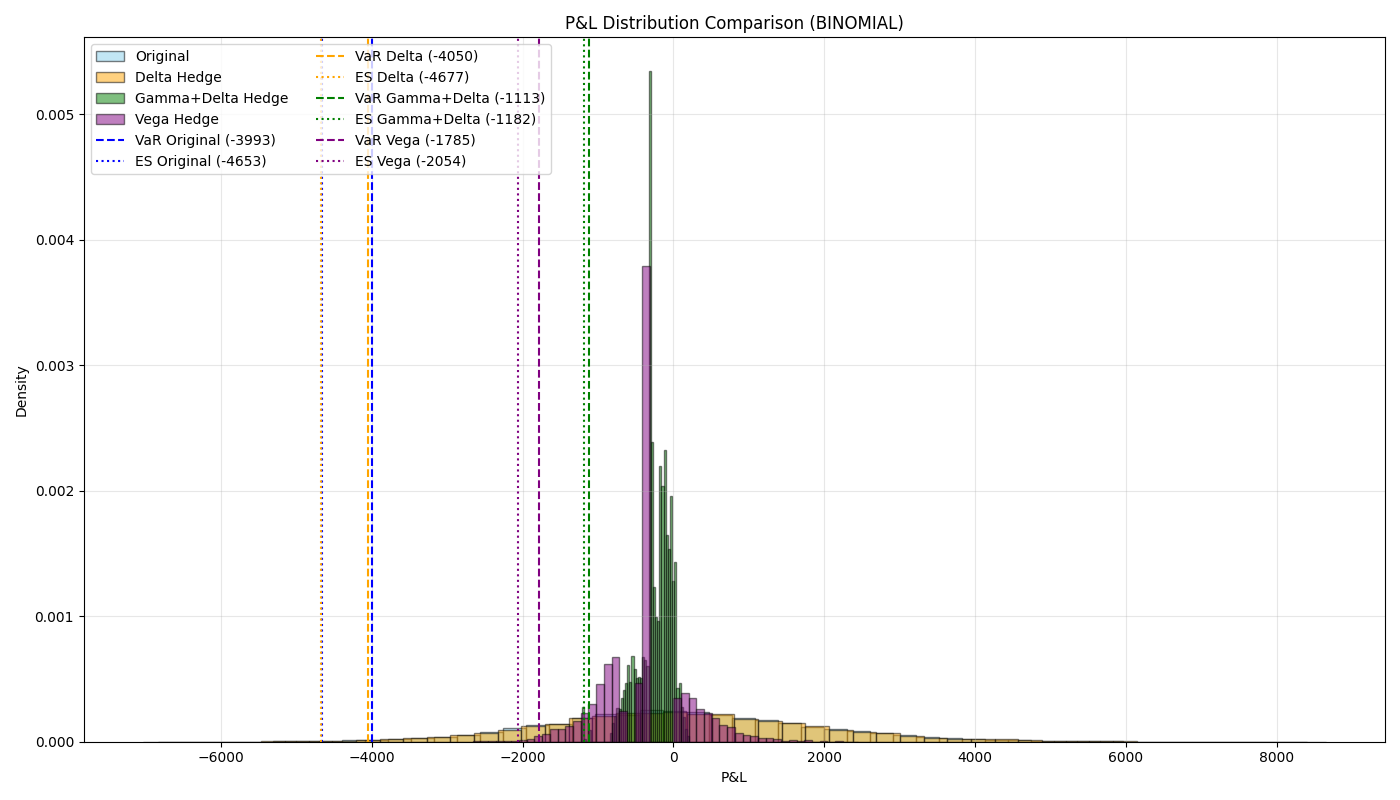
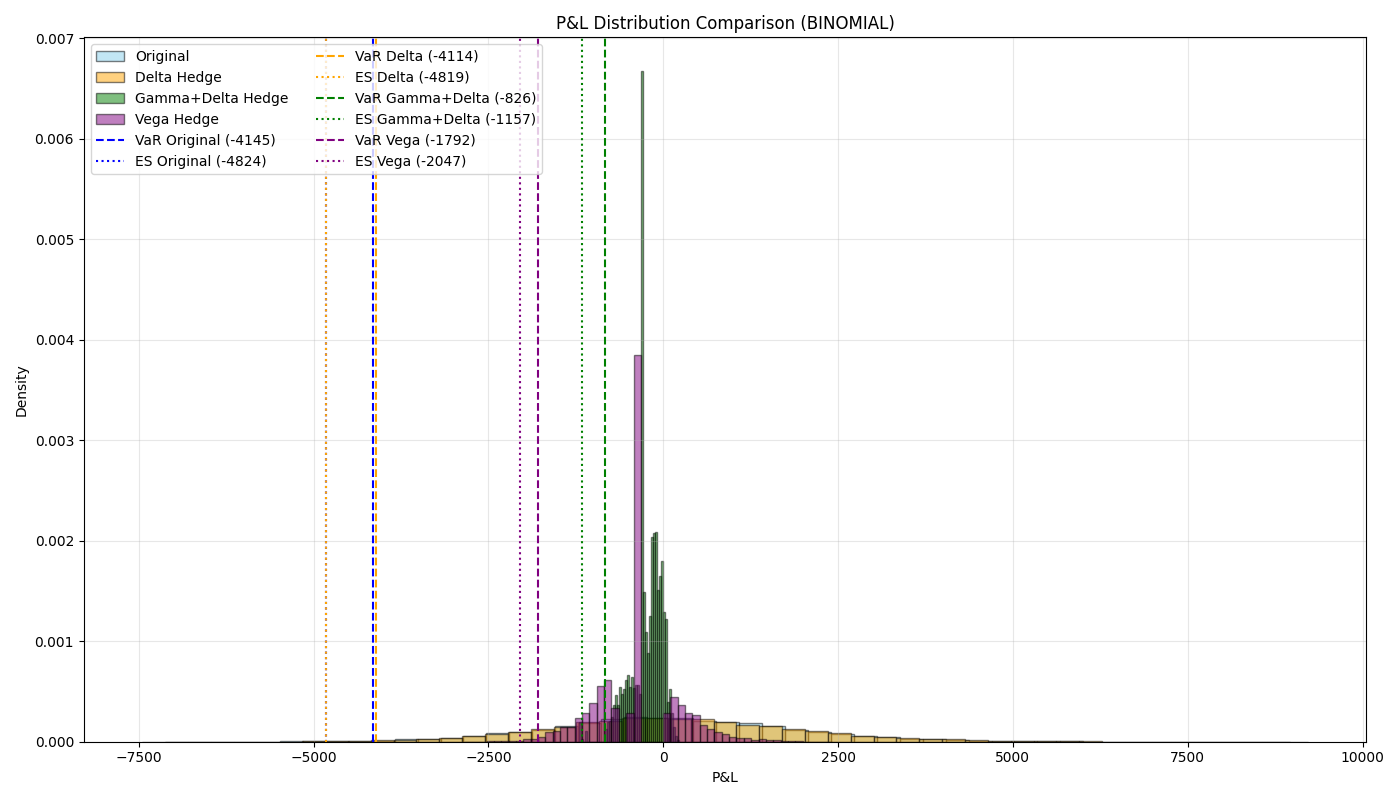
test

diff --git a/app.py b/app.py
@@ -91,42 +91,93 @@ st.sidebar.markdown('''
 if menu == "Portfolio Analysis - Black-Scholes":
     st.write("Black-Scholes portfolio model selected.")
     # Add Black-Scholes portfolio logic here
-    S = st.number_input("Spot price (S)", value=100.0, help="Current price of the underlying asset.")
-    K = st.number_input("Strike price (K)", value=100.0, help="Strike price of the option.")
-    T = st.number_input("Time to maturity (years)", value=1.0, min_value=0.01, help="Time to maturity in years.")
-    r = st.number_input("Risk-free rate (r, decimal)", value=0.05, min_value=0.0, max_value=1.0, step=0.01, help="Annual risk-free interest rate.")
+    num_options = st.number_input("Number of options in portfolio", min_value=1, max_value=10, value=4, step=1, help="Number of different options in the portfolio.")
+    horizon = st.number_input("Horizon (e.g., enter 10/252 for a 10-day horizon)", value=0.0849, min_value=0.01, format="%.4f", help="Horizon for VaR calculation.")
+    portfolio = []
+    default_values = [
+        {'type': 'call', 'S': 5912.17, 'K': 5915, 'T': 0.0849, 'r': 0.0421, 'qty': -10, 'market_price': 111.93},
+        {'type': 'put', 'S': 5912.17, 'K': 5910, 'T': 0.0849, 'r': 0.0421, 'qty': -5, 'market_price': 106.89},
+        {'type': 'call', 'S': 5912.17, 'K': 5920, 'T': 0.0849, 'r': 0.0421, 'qty': 10, 'market_price': 103.66},
+        {'type': 'put', 'S': 5912.17, 'K': 5900, 'T': 0.0849, 'r': 0.0421, 'qty': 10, 'market_price': 102.92}
+    ]
+    for i in range(num_options):
+        st.subheader(f"Option {i+1}")
+        option_type = st.selectbox(f"Option type for Option {i+1}", ["call", "put"], index=["call", "put"].index(default_values[i]['type']), key=f"option_type_{i}", help="Call or put option.")
+        S = st.number_input(f"Spot price (S) for Option {i+1}", value=default_values[i]['S'], help="Current price of the underlying asset.", key=f"S_{i}")
+        K = st.number_input(f"Strike price (K) for Option {i+1}", value=default_values[i]['K'], help="Strike price of the option.", key=f"K_{i}")
+        T = st.number_input(f"Time to maturity (years) for Option {i+1}", value=default_values[i]['T'], min_value=0.01, format="%.4f", help="Time to maturity in years.", key=f"T_{i}")
+        r = st.number_input(f"Risk-free rate (r, decimal) for Option {i+1}", value=default_values[i]['r'], min_value=0.0, max_value=1.0, step=0.0001, format="%.4f", help="Annual risk-free interest rate.", key=f"r_{i}")
+        qty = st.number_input(f"Quantity for Option {i+1}", value=default_values[i]['qty'], step=1, help="Quantity of options in the portfolio.", key=f"qty_{i}")
+        market_price = st.number_input(f"Market price for Option {i+1}", value=default_values[i]['market_price'], help="Observed market price of the option.", key=f"market_price_{i}")
+        portfolio.append({'type': option_type, 'S': S, 'K': K, 'T': T, 'r': r, 'qty': qty, 'market_price': market_price})
     if st.button("Calculate Portfolio", key="bs_portfolio_btn"):
         with st.spinner("Calculating portfolio..."):
             try:
-                price, greeks = bsa.calculate_portfolio(S, K, T, r)
-                st.metric("Portfolio Price", f"{price:.4f}")
-                st.write("Greeks:")
-                st.json(greeks)
+                np.random.seed(42)  # Set seed for reproducibility
+                value_bs = sum(bsa.price_option(opt)[0] * opt['qty'] for opt in portfolio)
+                greeks_total_bs = bsa.portfolio_greeks(portfolio)
+                # Simulate P&L distribution using bs_portfolio_analysis
+                sim_bs = bsa.simulate_portfolio(portfolio, n_sims=10000, horizon=horizon)
+                pnl_bs = sim_bs['pnl']
+                var_bs, es_bs = bsa.var_es(pnl_bs, alpha=0.01)
+                # Display portfolio Greeks first
+                st.write("Portfolio Greeks:")
+                st.json(greeks_total_bs)
+                # Display individual option model vs market prices
+                for i, opt in enumerate(portfolio, 1):
+                    st.subheader(f"Option {i} Details")
+                    model_price, _ = bsa.price_option(opt)
+                    col1, col2 = st.columns(2)
+                    col1.metric("Model Price", f"{model_price:.2f}")
+                    col2.metric("Market Price", f"{opt['market_price']:.2f}")
+                # Add Metric Risk label
+                st.subheader("Metric Risk")
+                # Display portfolio value, VaR, and ES horizontally
+                col1, col2, col3 = st.columns(3)
+                col1.metric("Portfolio Value", f"{value_bs:.2f}")
+                col2.metric("VaR (99%)", f"{var_bs:.2f}")
+                col3.metric("ES (99%)", f"{es_bs:.2f}")
+                # Plot histogram of P&L distribution
+                fig, ax = plt.subplots(figsize=(14, 8))
+                ax.hist(pnl_bs, bins=50, color='skyblue', edgecolor='k', alpha=0.5, density=True)
+                ax.axvline(-var_bs, color='red', linestyle='--', label=f'VaR (99%) {-var_bs:.2f}')
+                ax.axvline(-es_bs, color='orange', linestyle=':', label=f'ES (99%) {-es_bs:.2f}')
+                ax.set_title('Simulated P&L Distribution of the Portfolio (Black-Scholes)')
+                ax.set_xlabel('P&L')
+                ax.set_ylabel('Density')
+                ax.legend()
+                st.pyplot(fig)
             except Exception as e:
                 st.error(f"Error in calculation: {e}")
 
 elif menu == "Portfolio Analysis - Binomial":
     st.write("Binomial portfolio model selected.")
     # Add Binomial portfolio logic here
-    num_options = st.number_input("Number of options in portfolio", min_value=1, max_value=10, value=1, step=1, help="Number of different options in the portfolio.")
+    num_options = st.number_input("Number of options in portfolio", min_value=1, max_value=10, value=4, step=1, help="Number of different options in the portfolio.")
     N_steps = st.number_input("Number of steps", value=100, min_value=1, step=1, help="Discretization steps for Binomial model.")
     horizon = st.number_input("Horizon (e.g., enter 10/252 for a 10-day horizon)", value=0.0849, min_value=0.01, format="%.4f", help="Horizon for VaR calculation.")
     portfolio = []
+    default_values = [
+        {'type': 'call', 'style': 'european', 'S': 5912.17, 'K': 5915, 'T': 0.0849, 'r': 0.0421, 'qty': -10, 'market_price': 111.93},
+        {'type': 'put', 'style': 'american', 'S': 5912.17, 'K': 5910, 'T': 0.0849, 'r': 0.0421, 'qty': -5, 'market_price': 106.89},
+        {'type': 'call', 'style': 'european', 'S': 5912.17, 'K': 5920, 'T': 0.0849, 'r': 0.0421, 'qty': 10, 'market_price': 103.66},
+        {'type': 'put', 'style': 'european', 'S': 5912.17, 'K': 5900, 'T': 0.0849, 'r': 0.0421, 'qty': 10, 'market_price': 102.92}
+    ]
     for i in range(num_options):
         st.subheader(f"Option {i+1}")
-        option_style = st.selectbox(f"Option style for Option {i+1}", ["european", "american"], key=f"option_style_{i}", help="Exercise style of the option.")
-        option_type = st.selectbox(f"Option type for Option {i+1}", ["call", "put"], key=f"option_type_{i}", help="Call or put option.")
-        S = st.number_input(f"Spot price (S) for Option {i+1}", value=5912.17, help="Current price of the underlying asset.", key=f"S_{i}")
-        K = st.number_input(f"Strike price (K) for Option {i+1}", value=5915, help="Strike price of the option.", key=f"K_{i}")
-        T = st.number_input(f"Time to maturity (years) for Option {i+1}", value=0.0849, min_value=0.01, format="%.4f", help="Time to maturity in years.", key=f"T_{i}")
-        r = st.number_input(f"Risk-free rate (r, decimal) for Option {i+1}", value=0.0421, min_value=0.0, max_value=1.0, step=0.0001, format="%.4f", help="Annual risk-free interest rate.", key=f"r_{i}")
-        qty = st.number_input(f"Quantity for Option {i+1}", value=-10, step=1, help="Quantity of options in the portfolio.", key=f"qty_{i}")
-        market_price = st.number_input(f"Market price for Option {i+1}", value=111.93, help="Observed market price of the option.", key=f"market_price_{i}")
+        option_style = st.selectbox(f"Option style for Option {i+1}", ["european", "american"], index=["european", "american"].index(default_values[i]['style']), key=f"option_style_{i}", help="Exercise style of the option.")
+        option_type = st.selectbox(f"Option type for Option {i+1}", ["call", "put"], index=["call", "put"].index(default_values[i]['type']), key=f"option_type_{i}", help="Call or put option.")
+        S = st.number_input(f"Spot price (S) for Option {i+1}", value=default_values[i]['S'], help="Current price of the underlying asset.", key=f"S_{i}")
+        K = st.number_input(f"Strike price (K) for Option {i+1}", value=default_values[i]['K'], help="Strike price of the option.", key=f"K_{i}")
+        T = st.number_input(f"Time to maturity (years) for Option {i+1}", value=default_values[i]['T'], min_value=0.01, format="%.4f", help="Time to maturity in years.", key=f"T_{i}")
+        r = st.number_input(f"Risk-free rate (r, decimal) for Option {i+1}", value=default_values[i]['r'], min_value=0.0, max_value=1.0, step=0.0001, format="%.4f", help="Annual risk-free interest rate.", key=f"r_{i}")
+        qty = st.number_input(f"Quantity for Option {i+1}", value=default_values[i]['qty'], step=1, help="Quantity of options in the portfolio.", key=f"qty_{i}")
+        market_price = st.number_input(f"Market price for Option {i+1}", value=default_values[i]['market_price'], help="Observed market price of the option.", key=f"market_price_{i}")
         portfolio.append({'type': option_type, 'style': option_style, 'S': S, 'K': K, 'T': T, 'r': r, 'qty': qty, 'market_price': market_price})
     if st.button("Calculate Portfolio", key="binomial_portfolio_btn"):
         with st.spinner("Calculating portfolio..."):
             try:
-                sim_binomial = bpa.simulate_portfolio(portfolio, n_sims=10000, N=N_steps, horizon=T)
+                sim_binomial = bpa.simulate_portfolio(portfolio, n_sims=10000, N=N_steps, horizon=horizon)
                 pnl_binomial = sim_binomial['pnl']
                 var_binomial, es_binomial = bpa.var_es(pnl_binomial, alpha=0.01)
                 value_binomial = bpa.portfolio_value(portfolio, N=N_steps)
@@ -169,23 +220,29 @@ elif menu == "Portfolio Analysis - Binomial":
 elif menu == "Portfolio Analysis - Monte Carlo":
     st.write("Monte Carlo portfolio model selected.")
     # Add Monte Carlo portfolio logic here
-    num_options = st.number_input("Number of options in portfolio", min_value=1, max_value=10, value=1, step=1, help="Number of different options in the portfolio.")
+    num_options = st.number_input("Number of options in portfolio", min_value=1, max_value=10, value=4, step=1, help="Number of different options in the portfolio.")
     n_sim_main = st.number_input("Number of simulations for P&L and VaR/ES", value=50000, min_value=1000, step=1000, help="Number of scenarios for P&L and VaR/ES simulation.")
     n_sim_greeks = st.number_input("Number of simulations for Greeks", value=100000, min_value=1000, step=1000, help="Number of scenarios for Greeks calculation.")
     st.write("Note: The following input uses the Longstaff-Schwartz method.")
     N_steps = st.number_input("Number of steps (For short maturities, use fewer steps; for long maturities, use more steps)", value=100, min_value=1, step=1, help="Discretization steps for Monte Carlo model.")
     horizon = st.number_input("Horizon (e.g., enter 10/252 for a 10-day horizon)", value=0.0849, min_value=0.01, format="%.4f", help="Horizon for VaR calculation.")
     portfolio = []
+    default_values = [
+        {'type': 'call', 'style': 'european', 'S': 5912.17, 'K': 5915, 'T': 0.0849, 'r': 0.0421, 'qty': -10, 'market_price': 111.93},
+        {'type': 'put', 'style': 'american', 'S': 5912.17, 'K': 5910, 'T': 0.0849, 'r': 0.0421, 'qty': -5, 'market_price': 106.89},
+        {'type': 'call', 'style': 'european', 'S': 5912.17, 'K': 5920, 'T': 0.0849, 'r': 0.0421, 'qty': 10, 'market_price': 103.66},
+        {'type': 'put', 'style': 'european', 'S': 5912.17, 'K': 5900, 'T': 0.0849, 'r': 0.0421, 'qty': 10, 'market_price': 102.92}
+    ]
     for i in range(num_options):
         st.subheader(f"Option {i+1}")
-        option_style = st.selectbox(f"Option style for Option {i+1}", ["european", "american"], key=f"option_style_{i}", help="Exercise style of the option.")
-        option_type = st.selectbox(f"Option type for Option {i+1}", ["call", "put"], key=f"option_type_{i}", help="Call or put option.")
-        S = st.number_input(f"Spot price (S) for Option {i+1}", value=5912.17, help="Current price of the underlying asset.", key=f"S_{i}")
-        K = st.number_input(f"Strike price (K) for Option {i+1}", value=5915, help="Strike price of the option.", key=f"K_{i}")
-        T = st.number_input(f"Time to maturity (years) for Option {i+1}", value=0.0849, min_value=0.01, format="%.4f", help="Time to maturity in years.", key=f"T_{i}")
-        r = st.number_input(f"Risk-free rate (r, decimal) for Option {i+1}", value=0.0421, min_value=0.0, max_value=1.0, step=0.0001, format="%.4f", help="Annual risk-free interest rate.", key=f"r_{i}")
-        qty = st.number_input(f"Quantity for Option {i+1}", value=-10, step=1, help="Quantity of options in the portfolio.", key=f"qty_{i}")
-        market_price = st.number_input(f"Market price for Option {i+1}", value=111.93, help="Observed market price of the option.", key=f"market_price_{i}")
+        option_style = st.selectbox(f"Option style for Option {i+1}", ["european", "american"], index=["european", "american"].index(default_values[i]['style']), key=f"option_style_{i}", help="Exercise style of the option.")
+        option_type = st.selectbox(f"Option type for Option {i+1}", ["call", "put"], index=["call", "put"].index(default_values[i]['type']), key=f"option_type_{i}", help="Call or put option.")
+        S = st.number_input(f"Spot price (S) for Option {i+1}", value=default_values[i]['S'], help="Current price of the underlying asset.", key=f"S_{i}")
+        K = st.number_input(f"Strike price (K) for Option {i+1}", value=default_values[i]['K'], help="Strike price of the option.", key=f"K_{i}")
+        T = st.number_input(f"Time to maturity (years) for Option {i+1}", value=default_values[i]['T'], min_value=0.01, format="%.4f", help="Time to maturity in years.", key=f"T_{i}")
+        r = st.number_input(f"Risk-free rate (r, decimal) for Option {i+1}", value=default_values[i]['r'], min_value=0.0, max_value=1.0, step=0.0001, format="%.4f", help="Annual risk-free interest rate.", key=f"r_{i}")
+        qty = st.number_input(f"Quantity for Option {i+1}", value=default_values[i]['qty'], step=1, help="Quantity of options in the portfolio.", key=f"qty_{i}")
+        market_price = st.number_input(f"Market price for Option {i+1}", value=default_values[i]['market_price'], help="Observed market price of the option.", key=f"market_price_{i}")
         portfolio.append({'type': option_type, 'style': option_style, 'S': S, 'K': K, 'T': T, 'r': r, 'qty': qty, 'market_price': market_price})
     if st.button("Calculate Portfolio", key="mc_portfolio_btn"):
         with st.spinner("Calculating portfolio..."):

diff --git a/option_pricing/black_scholes_model/bs_portfolio_analysis.py b/option_pricing/black_scholes_model/bs_portfolio_analysis.py
@@ -100,6 +100,7 @@ def portfolio_greeks(portfolio):
     return total
 
 def simulate_portfolio(portfolio, n_sims=10000, horizon=None, vol_shock_sigma=0.1, rho=-0.5):
+    np.random.seed(42)  # Set seed for reproducibility
     base_val = portfolio_value(portfolio)
     pnl = []
     shocks_dict = {}
